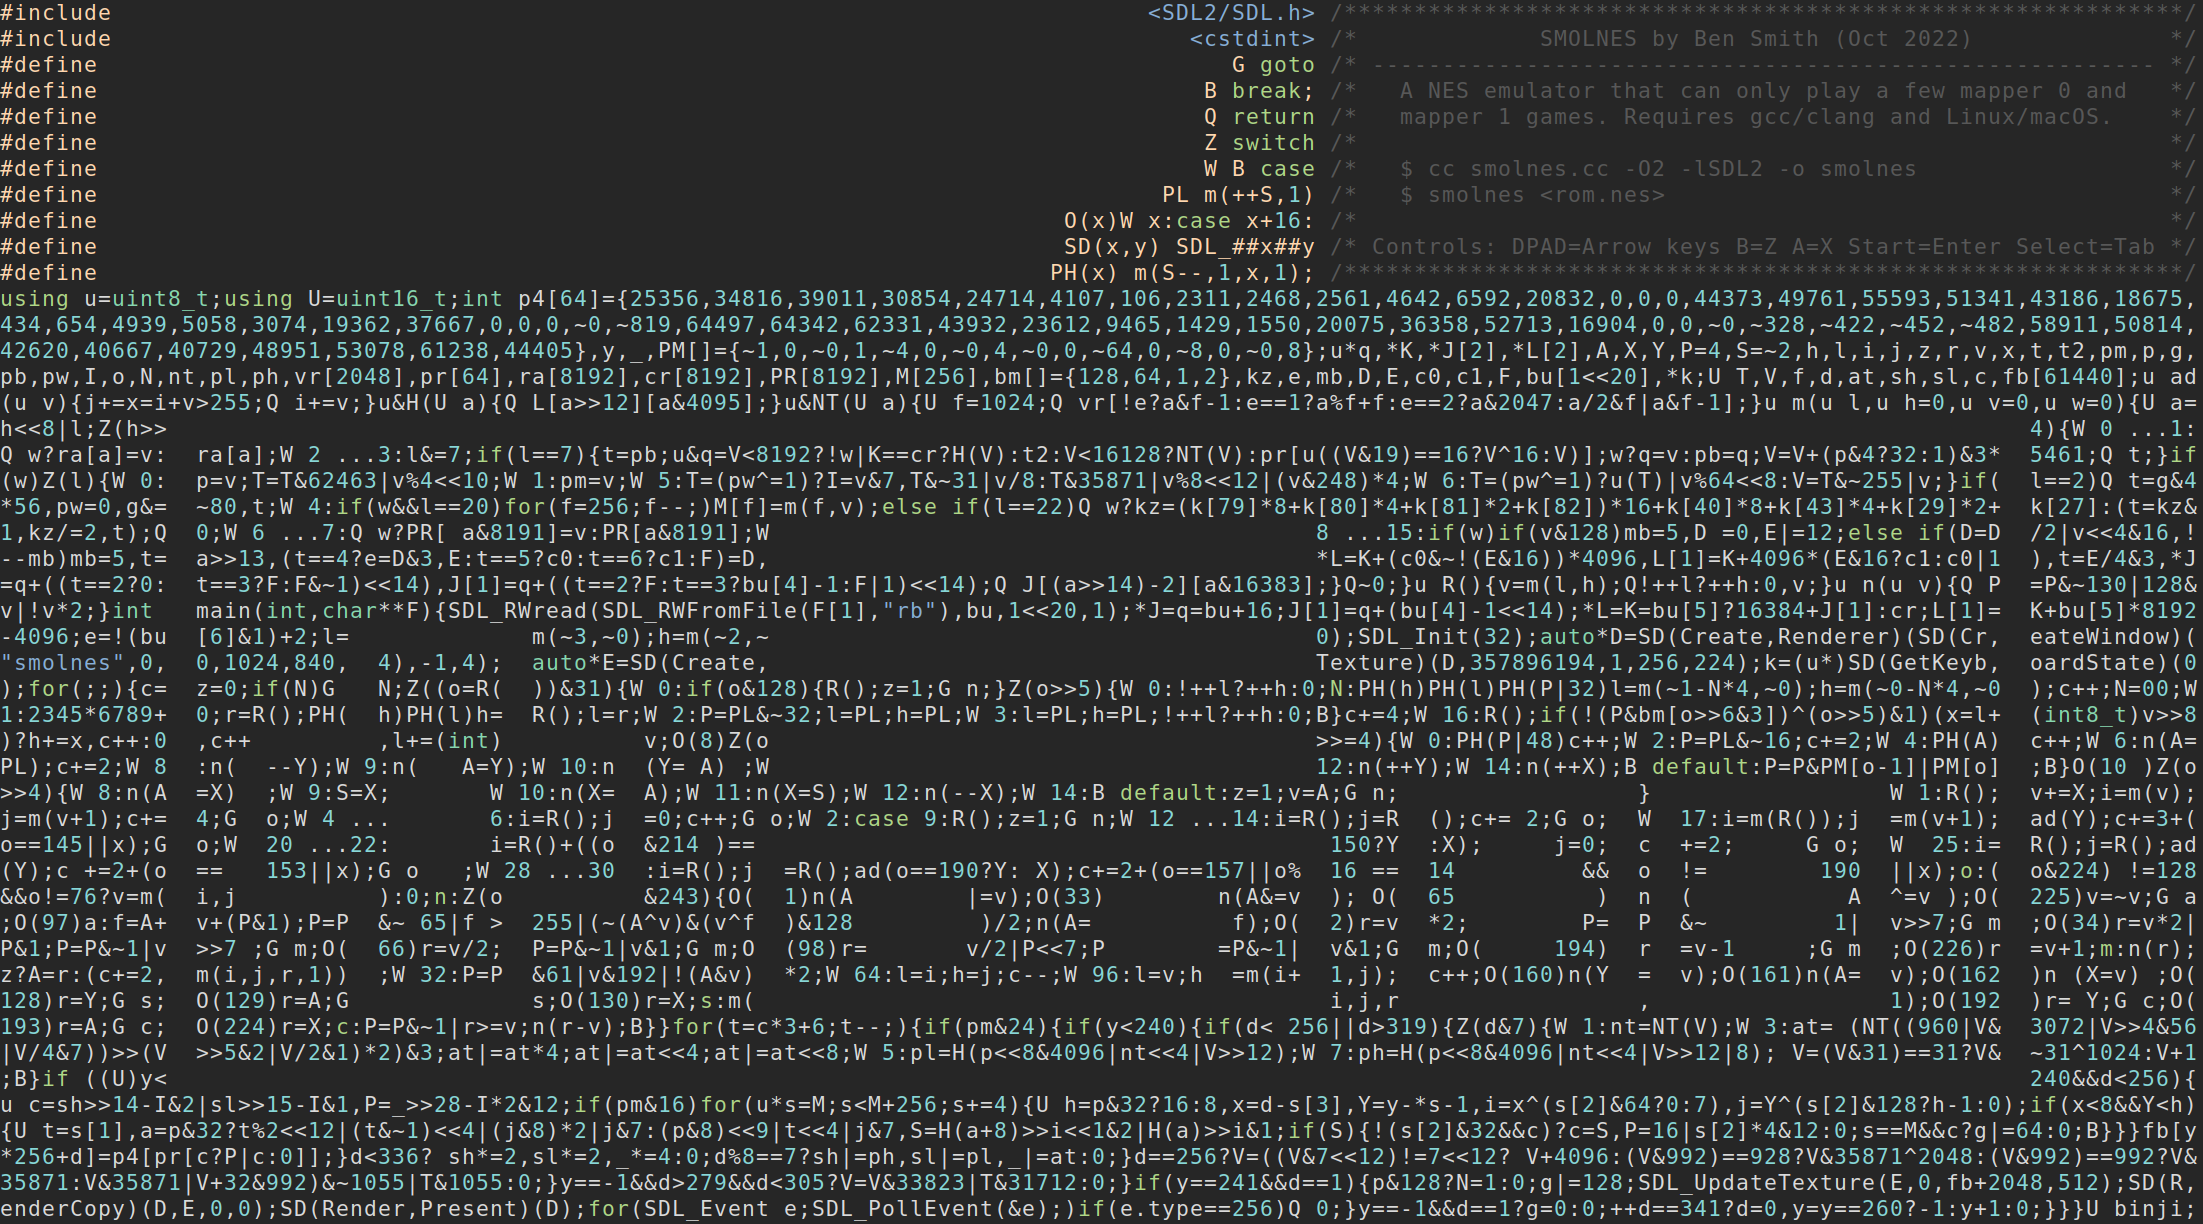
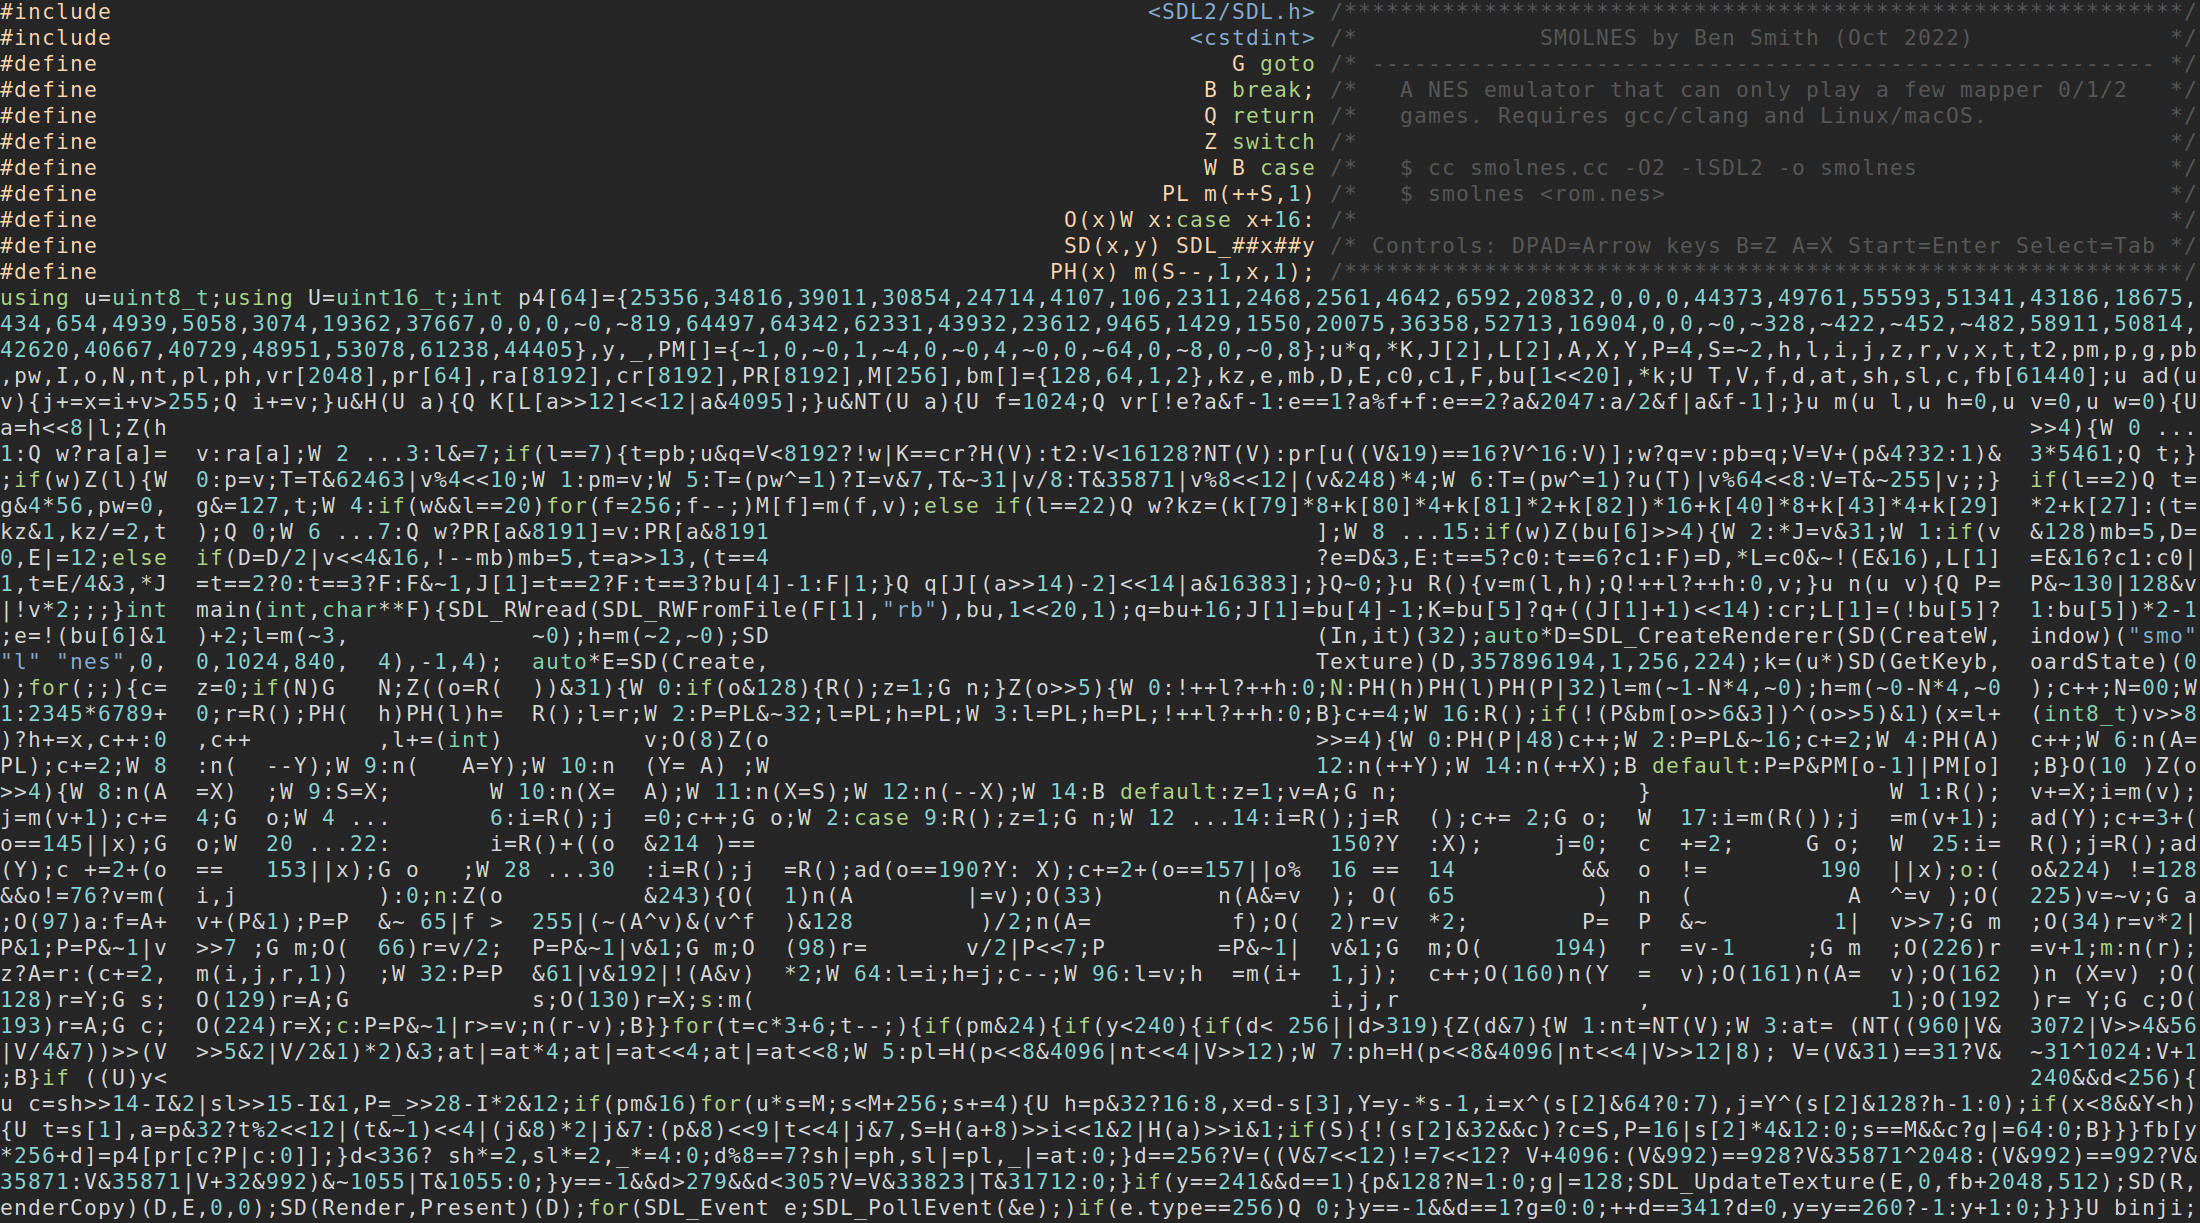
Update README

Changed region(s): [[0.0, 0.0, 1.0, 1.0]]

diff --git a/README.md b/README.md
@@ -4,7 +4,7 @@ A NES emulator in ~5000 significant bytes of c++.
 
 ## Features
 
-Plays some mapper 0 and mapper 1 games.
+Plays some mapper 0/1/2 games.
 
 ## Screenshots
 
@@ -19,6 +19,12 @@ Plays some mapper 0 and mapper 1 games.
 ![Rad Racer](img/rr.gif)
 ![Super Mario Bros.](img/smb.gif)
 ![Teenage Mutant Ninja Turtle](img/tmnt.gif)
+![Contra](img/contra.gif)
+![Goonies 2](img/g2.gif)
+![Castlevania](img/cv.gif)
+![DuckTales](img/dt.gif)
+![Alwa's Awakening](img/alwa.gif)
+![Witch n' Wiz](img/wnw.gif)
 
 ![Source Code](img/smolnes.png)
 
